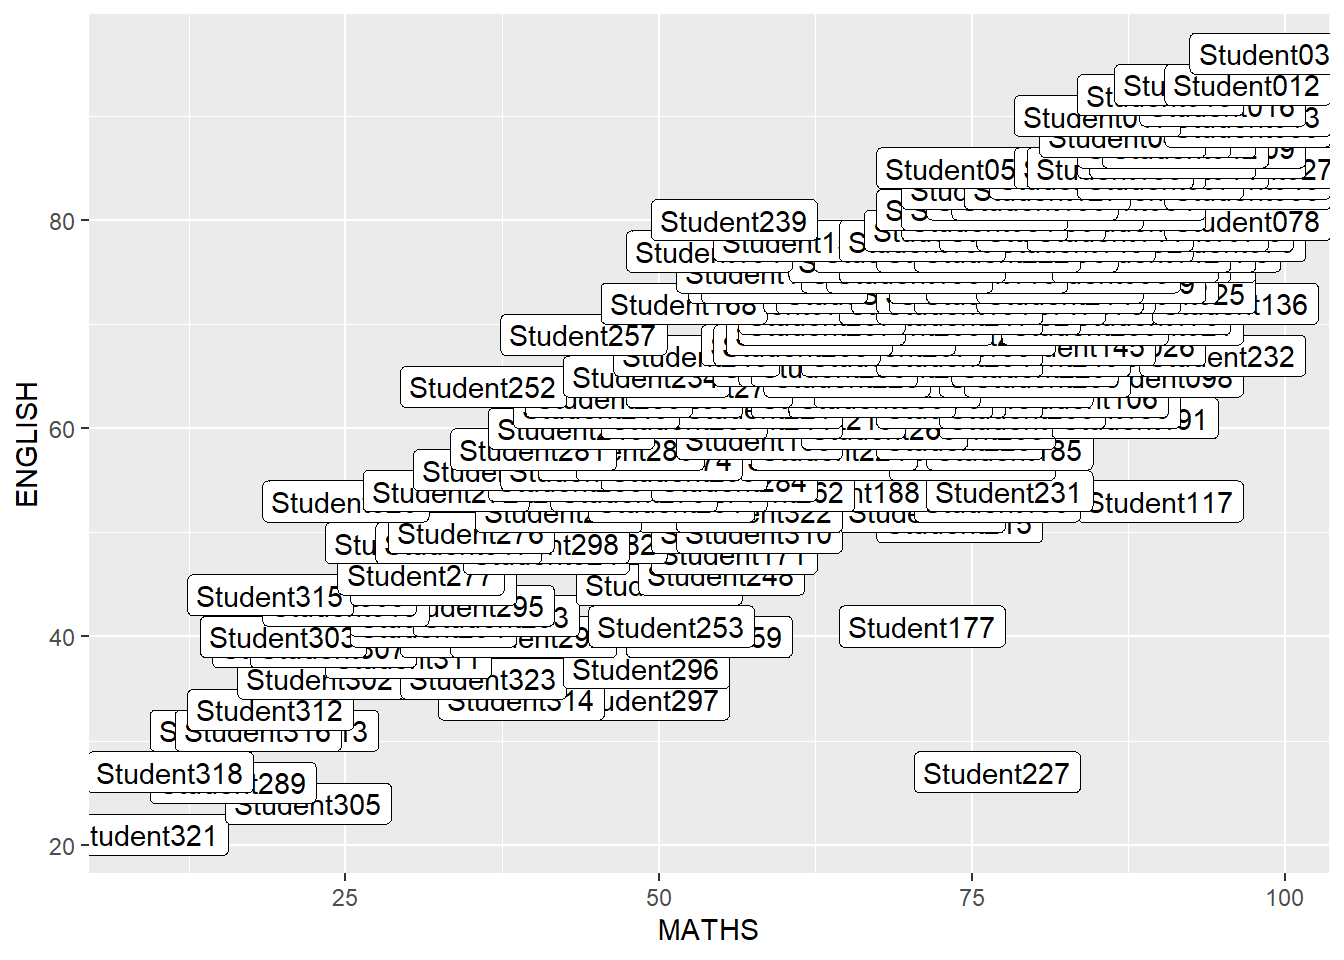
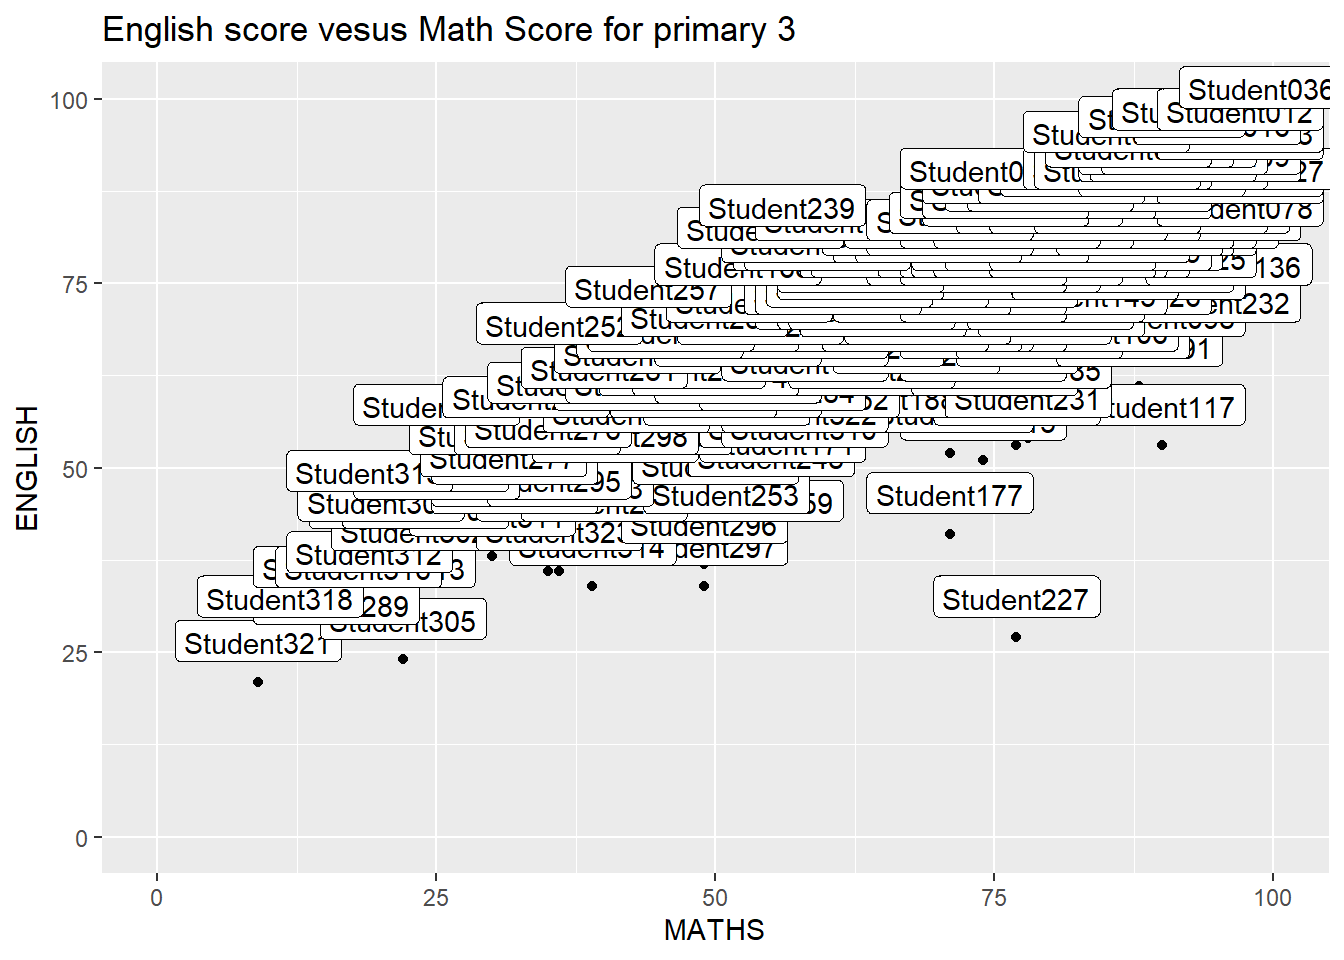
task 2.3

diff --git a/_site/Hands-on_Ex/Hands-on_Ex02/Hands-on_Ex02.html b/_site/Hands-on_Ex/Hands-on_Ex02/Hands-on_Ex02.html
@@ -262,7 +262,7 @@ code span.wa { color: #60a0b0; font-weight: bold; font-style: italic; } /* Warni
 <p>In this exercise, beside tidyverse, four R packages will be used. They are:</p>
 <ul>
 <li><p>ggrepel: an R package provides geoms for ggplot2 to repel overlapping text labels.</p></li>
-<li><p>ggthemes: an R package provides some extra themes, geoms, and scales for 'ggplot2'.</p></li>
+<li><p>ggthemes: an R package provides some extra themes, geoms, and scales for ‘ggplot2’.</p></li>
 <li><p>hrbrthemes: an R package provides typography-centric themes and theme components for ggplot2.</p></li>
 <li><p>patchwork: an R package for preparing composite figure created using ggplot2.</p></li>
 </ul>
@@ -308,6 +308,9 @@ code span.wa { color: #60a0b0; font-weight: bold; font-style: italic; } /* Warni
 </div>
 </div>
 </div>
+<p><a href="https://ggrepel.slowkow.com/"><strong>ggrepel</strong></a> <img src="https://r4va.netlify.app/chap02/img/image3.jpg" class="img-fluid" width="31"> is an extension of <strong>ggplot2</strong> package which provides <code>geoms</code> for <strong>ggplot2</strong> to repel overlapping text as in our examples on the right.</p>
+<p><img src="https://r4va.netlify.app/chap02/img/image2.jpg" class="img-fluid"></p>
+<p>We simply replace <code>geom_text()</code> by <a href="https://ggrepel.slowkow.com/reference/geom_text_repel.html"><code>geom_text_repel()</code></a> and <code>geom_label()</code> by <a href="https://ggrepel.slowkow.com/reference/geom_text_repel.html"><code>geom_label_repel</code></a>.</p>
 
 
 </section>
